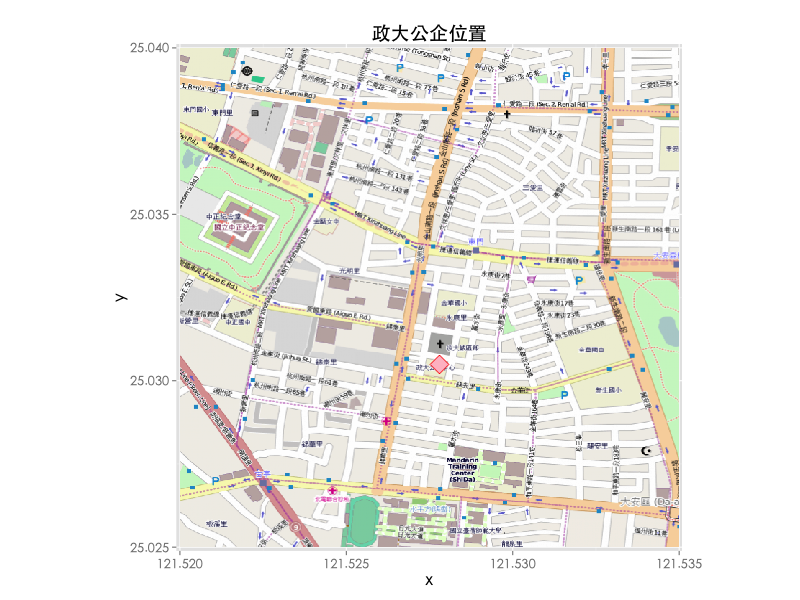
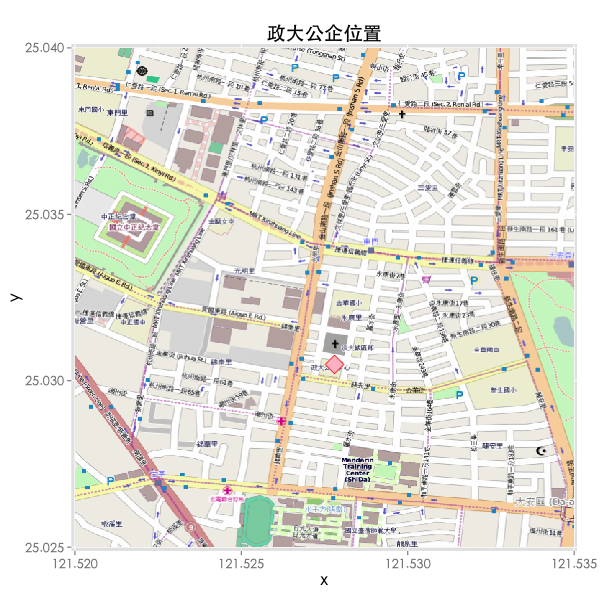
update code, update slide, modify r-fig

diff --git a/slides/index.html b/slides/index.html
@@ -902,9 +902,44 @@ for(s in seq(from=2, to=5, by=0.5))
             <p class="inline">靜態</p>
             <center><img src="r-fig/ggmap_earthquake.png" width="95%" alt=""></center>
         </div>
-        <div class="left">
+        <div class="right">
             <p class="inline">動態</p>
             <center><img src="r-fig/ggmap_earthquake.gif" width="95%" alt=""></center>
+        </div>
+    </div></section>
+
+    <section id="osm" class="slide"><div>
+        <h2>OpenStreetMap + ggmap</h2>
+        <ul>
+            <li><a href="http://openstreetmap.tw/">OpenStreetMap 台灣</a> 簡稱OSM， 是自由而且開源的協作全球地圖</li>
+            <li>可以抓取到比 Google Map 更豐富的資訊</li>
+            <li>ggmap 裡可以選擇別的圖資來源使用 OSM，但現在 API 壞了</li>
+            <li>使用另一套件 <code>OpenStreetMap</code></li>
+            <li>需要編譯 <code>gdal, rgdal</code></li>
+            <li>幸好仍然可以結合 ggplot2 使用</li>
+        </ul>
+    </div></section>
+
+    <section id="play-osm" class="slide twocol"><div>
+        <p class="tighter">標示出演講位置，政大公企中心座標</p>
+        <div class="left"><pre class="language-r small">
+<code>library(ggplot2)
+library(OpenStreetMap)
+map <- openmap(
+    c(lat= 25.04, lon= 121.520),
+    c(lat= 25.025, lon= 121.535),
+    type="osm"
+)
+g <- autoplot(openproj(map))
+# 顯示政大公企 location
+g + geom_point(
+    data=NULL, x=121.52780, y=25.03049,
+    size=7, color="red", fill="pink",
+    shape=23
+)
+</code></pre></div>
+        <div class="right">
+            <p class="tighter"><img src="r-fig/ggmap_osm.png" style="width: 400px;" alt=""/></p>
         </div>
     </div></section>
 
